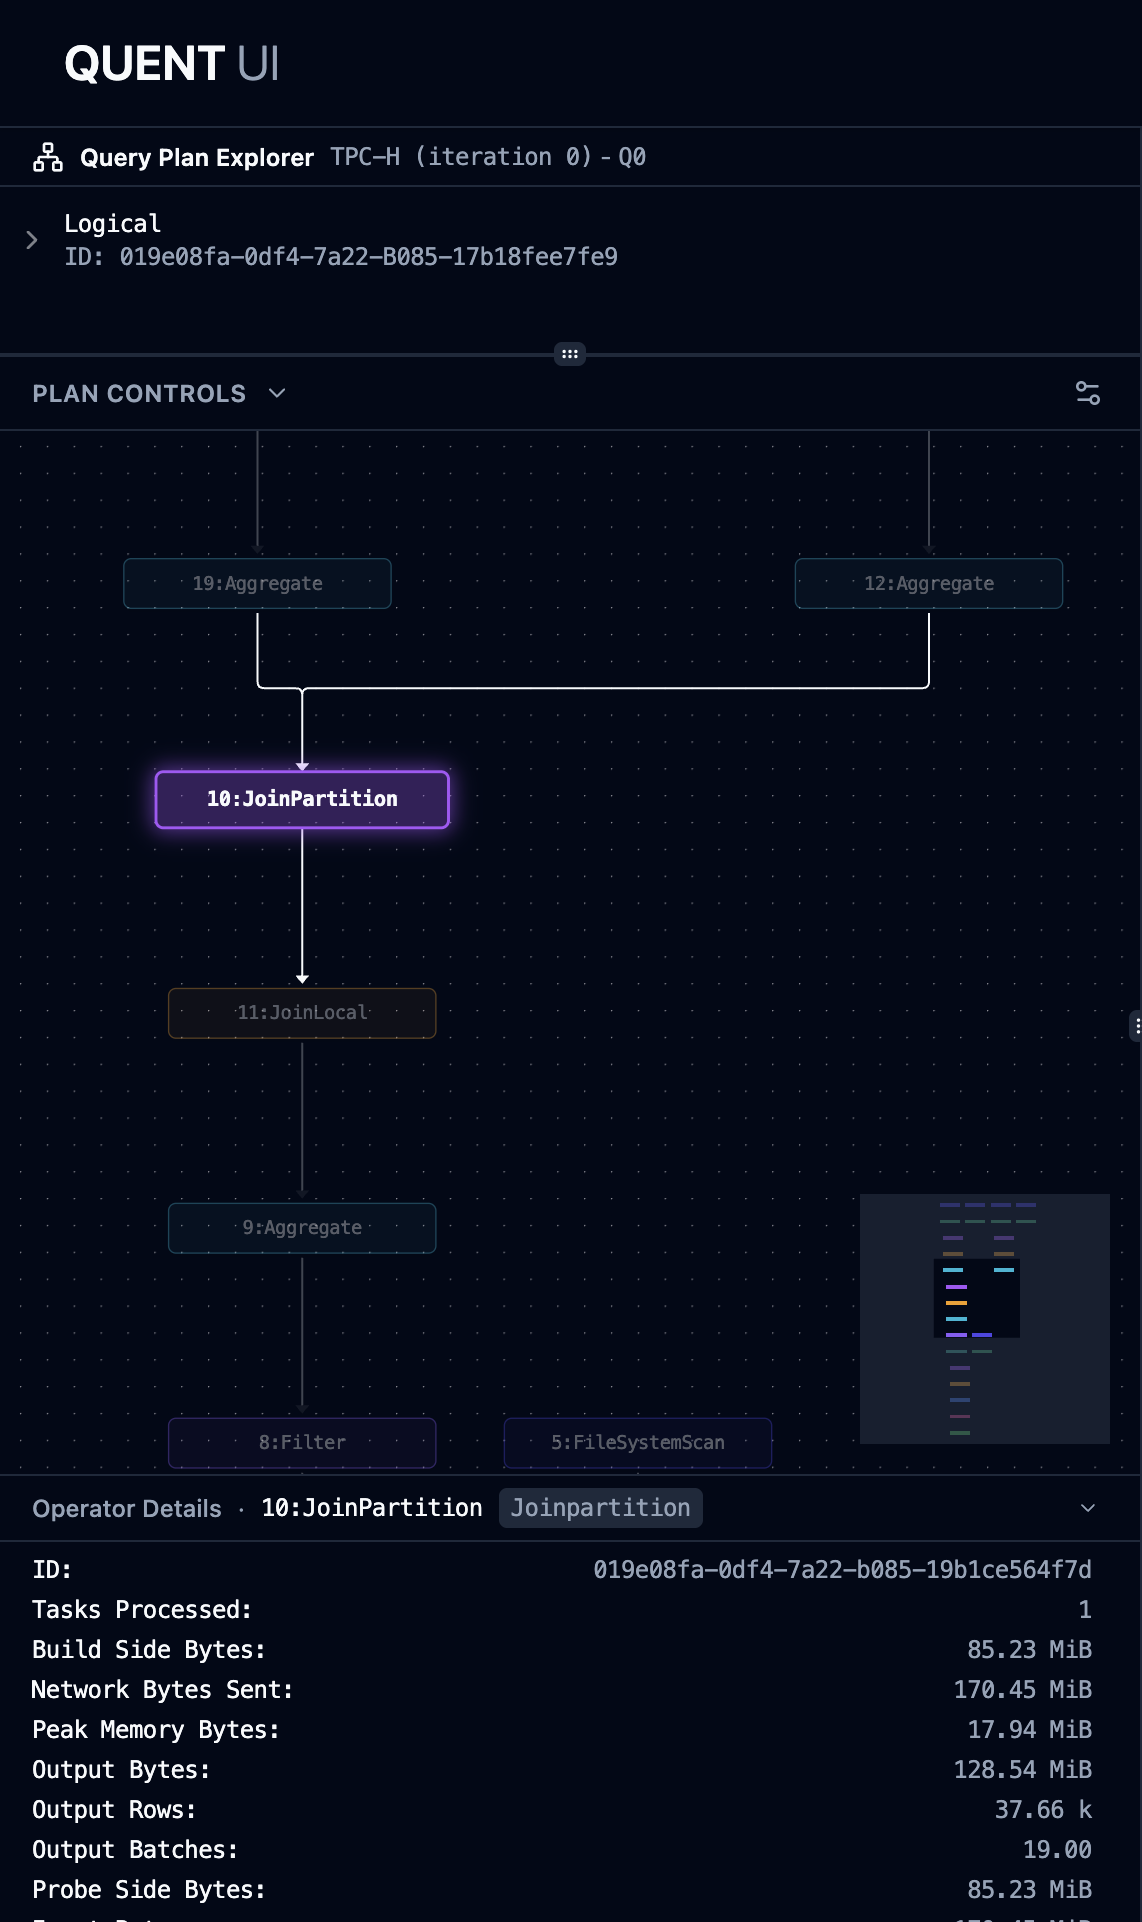
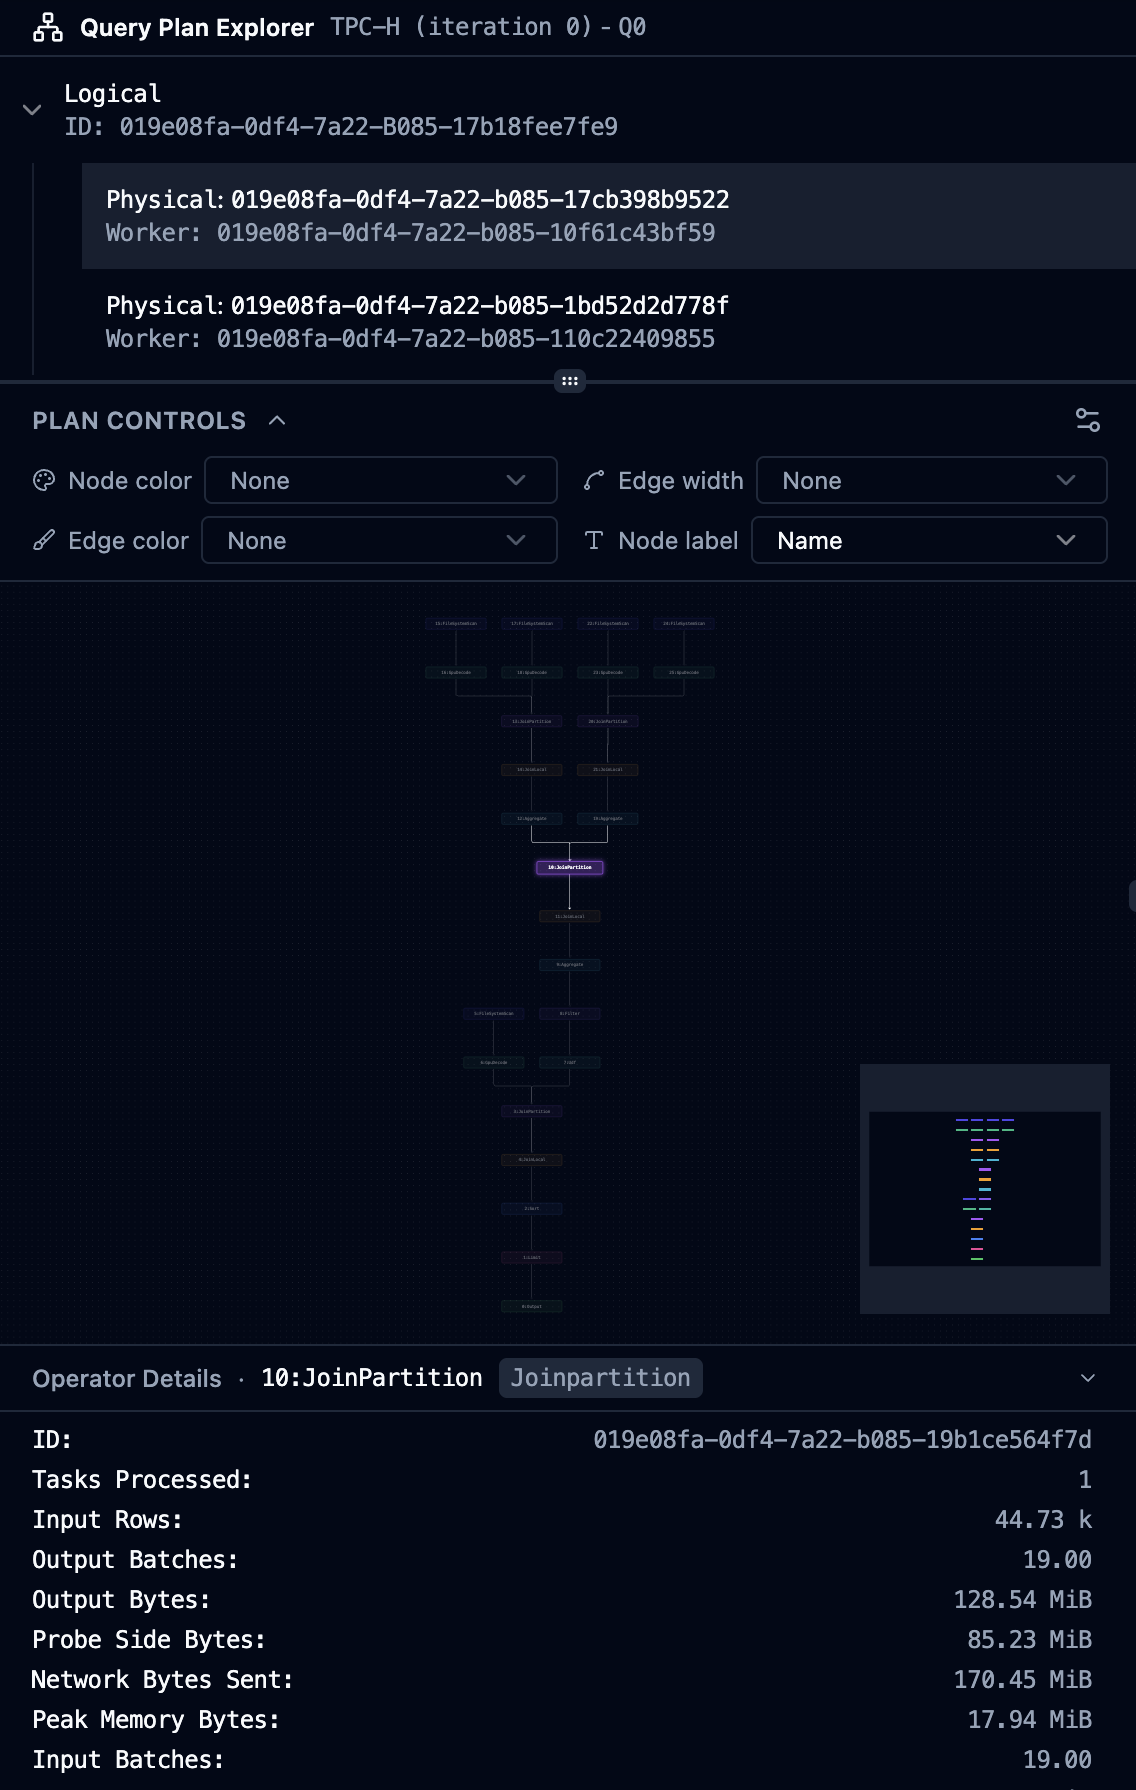
Update screenshots

diff --git a/ui/README.md b/ui/README.md
@@ -4,6 +4,9 @@ A front end for query profiling instrumentation
 
 ## Screenshots
 
+![Overview](docs/screenshots/overview.png)
+Overview of the Quent UI with the query plan explorer and resource timeline side by side.
+
 ![Resource Timelines](docs/screenshots/timeline-gpudecode-selection.png)
 Timeline view reveals the structure of resources used in the query in an interactive timeline tree. 
 Timelines show resource usage over time, operator active time spans, and individual entities at high enough zoom levels.